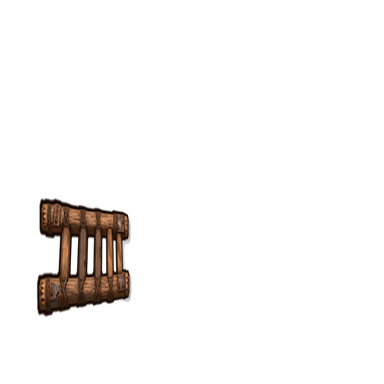
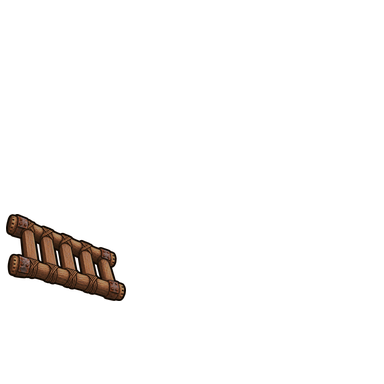
Portable ladder E/W/S GPT re-render candidates (PORTABLE_LADDER_FIX_EW_LIES_ALONG_WALL)
Owner 2026-10-24: E/W "read as totally flat ... compressive transform"; S "should only be small nubs".
E/W: Codex $imagegen edits seeded with the flat east + kept north, then a wider plank-rung pass (r4),
colour-matched to the kept north and fitted on the rig canvas by v5/portable_gpt.py; west = mirror.
S: stringer tips only over the near rim, modelled on vanilla wall-attachment south views.
draw.py no longer writes any portable facing. Criteria ledger CL-010 (flat look), CL-011 (south nubs).
Judge: 3 rounds (ladders_port_gpt_{,b_,c_}20261024), all ESCALATE; last blockers = side finish smoother
than the north, foot touching the dark (fixed after the judge: foot moved to x 258, unjudged).
NOT installed; candidates only.

Claude-Session: https://claude.ai/code/session_01L4tZvxfH2SUAkWkAy5bEtn

Changed region(s): [[0.0, 0.5, 0.3438, 0.8438]]

diff --git a/src/RimMandrake/FlowWorks/art_source/Ladder/v5/portable_gpt.py b/src/RimMandrake/FlowWorks/art_source/Ladder/v5/portable_gpt.py
@@ -1,0 +1,76 @@
+"""Portable ladder E/W/S from GPT image edits (owner 2026-10-24: v5's squeezed east "read as totally flat"; south must be
+"only small nubs sticking up", like vanilla wall-hanging souths).
+
+    python3 portable_gpt.py [east_round] [south_round]   # fits gpt/<round>_{east,south}.png onto the 384 rig canvas -> out/
+
+Sources in gpt/ are Codex $imagegen edits: east = seed v5 flat east + kept north ("restore proper 3D"); south = kept
+north + a strip of vanilla wall-attachment N/E/S views (TorchWallLamp, WallLamp, Odyssey lights/pumps).
+Rig: 384 px canvas, drawSize 1.5 (256 px/cell). East canvas: wall face band x ~262..320, rim x 320; the top pokes past
+the rim as the kept north's top pokes past its rim. South canvas: near rim at row 256; nubs stand on it.
+"""
+import sys
+from pathlib import Path
+from PIL import Image
+
+HERE = Path(__file__).resolve().parent
+GPT, OUT = HERE / "gpt", HERE / "out"
+CANVAS = 384
+E_RIGHT, E_LEN, E_CY = 378, 120, 257        # top end 58 px past the rim (north pokes 65 past its rim), foot at x 258 on the band (judge c: 252 touched the dark)
+S_RIM, S_W, S_CX = 258, 112, 192            # nubs' feet on the near rim; spread ~ the north's stringer span (119)
+S_KEEP = 0.5                                # judge round 1: the whole U read as a truncated north; keep the caps only
+
+
+def _opaque(im, t=40):
+    """Crop to pixels with alpha > t and zero the faint haze GPT leaves elsewhere."""
+    a = im.getchannel("A").point(lambda v: v if v > t else 0)
+    im = im.copy()
+    im.putalpha(a)
+    return im.crop(a.getbbox())
+
+
+def _fit(src, width):
+    im = _opaque(Image.open(src).convert("RGBA"))
+    h = round(im.height * width / im.width)
+    return im.resize((width, h), Image.LANCZOS)
+
+
+def _match(im, ref):
+    """Per-channel mean/std transfer from the kept north (judge round 2: GPT's side view was brighter and cleaner)."""
+    import numpy as np
+    a, r = np.asarray(im, dtype=np.float32).copy(), np.asarray(ref, dtype=np.float32)
+    m, mr = a[..., 3] > 200, r[..., 3] > 200
+    for c in range(3):
+        x, y = a[..., c][m], r[..., c][mr]
+        a[..., c][m] = (x - x.mean()) / (x.std() + 1e-6) * y.std() + y.mean()
+    return Image.fromarray(a.clip(0, 255).astype("uint8"), "RGBA")
+
+
+def east(rnd):
+    north = Image.open(HERE.parents[2] / "Textures/Things/Building/FlowWorks/Canals/RM_LadderPortable_north.png").convert("RGBA")
+    im = _match(_fit(GPT / f"{rnd}_east.png", E_LEN), north)
+    out = Image.new("RGBA", (CANVAS, CANVAS))
+    out.alpha_composite(im, (E_RIGHT - im.width, E_CY - im.height // 2))
+    return out
+
+
+def south(rnd):
+    im = _fit(GPT / f"{rnd}_south.png", S_W)
+    im = im.crop((0, 0, im.width, round(im.height * S_KEEP)))      # the near wall hides the rest
+    out = Image.new("RGBA", (CANVAS, CANVAS))
+    out.alpha_composite(im, (S_CX - im.width // 2, S_RIM - im.height))
+    return out
+
+
+def main():
+    erd = sys.argv[1] if len(sys.argv) > 1 else "r4"         # east round
+    srd = sys.argv[2] if len(sys.argv) > 2 else "r1"         # south round
+    e = east(erd)
+    outs = {"east": e, "west": e.transpose(Image.FLIP_LEFT_RIGHT), "south": south(srd)}
+    for f, im in outs.items():
+        p = OUT / f"RM_LadderPortable_{f}.png"
+        im.save(p)
+        print(p, im.getbbox())
+
+
+if __name__ == "__main__":
+    main()

diff --git a/src/RimMandrake/FlowWorks/art_source/Ladder/v5/draw.py b/src/RimMandrake/FlowWorks/art_source/Ladder/v5/draw.py
@@ -166,12 +166,8 @@ def rail_south(P, raised):
     return finish(shadowed(pen.im, **SHADOW))
 
 
-# ---------------------------------------------------------------- portable east/west: the kept north facing, turned
-TEX = HERE.parents[2] / "Textures" / "Things" / "Building" / "FlowWorks" / "Canals"
-
-
-def portable_east():
-    return side_from_north(Image.open(TEX / "RM_LadderPortable_north.png"), s=0.42)   # a leaned ladder: steeper still
+# portable east/west/south: owner 2026-10-24 rejected the squeezed north ("totally flat"); they now come from GPT
+# re-renders fitted by portable_gpt.py, so this script no longer writes any portable facing.
 
 
 def main():
@@ -184,8 +180,6 @@ def main():
             outs[f"{tag}_east"] = rail_east(P, r)
             outs[f"{tag}_south"] = rail_south(P, r)
             outs[f"{tag}_west"] = outs[f"{tag}_east"].transpose(Image.FLIP_LEFT_RIGHT)
-    outs["RM_LadderPortable_east"] = portable_east()
-    outs["RM_LadderPortable_west"] = outs["RM_LadderPortable_east"].transpose(Image.FLIP_LEFT_RIGHT)
     for k, im in outs.items():
         bb = im.getchannel("A").getbbox()
         assert bb and bb[0] > 0 and bb[1] > 0 and bb[2] < C and bb[3] < C, (k, bb)

diff --git a/infrastructure/state/art_eval/runs/ladders_port_gpt_c_20261024/summary.md b/infrastructure/state/art_eval/runs/ladders_port_gpt_c_20261024/summary.md
@@ -1,0 +1,10 @@
+# art_eval run ladders_port_gpt_c_20261024
+
+| subject | cand | template/module | Opus band | GPT | decision | s | reasons |
+|---|---|---|---|---|---|---|---|
+| RM_LadderPortable | A | machine/wall_mounted | WEAK | unsure | **ESCALATE** | 131.9 | opus band WEAK (model said good); blocking ['SIBLING_MISMATCH', 'OWNER_NOTE_IGNORED']; polish ['LEGIB_32']; unreadable ['BORE (n/a on an unconditional item)', 'PORTS (n/a on an unconditional item)', 'LAYERS (n/a on an unconditional item)']; gpt unsure: unsettled ['K1', 'K2', 'K5'], own blocking ['SIBLING_MISMATCH', 'OWNER_NOTE_IGNORED']; still failing after 3 regen rounds — one line to the owner |
+
+## One line each for the owner
+- RM_LadderPortable: ESCALATE — still failing after 3 regen rounds — one line to the owner
+
+Models reported: claude-opus-5-5, gpt-6.1-sol · prompt versions: `departures_brief@v2#9cda88+gpt_targeted_second_look@v1#cb6e32+opus_first_pass@v2#85b8f1+preamble@v2#7130aa+regen_prompt_edit@v1#861700+severity@v4#e9bbe1+machine@v3#c807af`

diff --git a/infrastructure/state/art_eval/runs/ladders_port_gpt_b_20261024/summary.md b/infrastructure/state/art_eval/runs/ladders_port_gpt_b_20261024/summary.md
@@ -1,0 +1,10 @@
+# art_eval run ladders_port_gpt_b_20261024
+
+| subject | cand | template/module | Opus band | GPT | decision | s | reasons |
+|---|---|---|---|---|---|---|---|
+| RM_LadderPortable | A | machine/wall_mounted | WEAK | unsure | **ESCALATE** | 119.0 | opus band WEAK (model said good); blocking ['F_INCONSISTENT', 'STYLE_OFF', 'F_SIZE_JUMP']; polish []; unreadable ['BORE (n/a on an unconditional item)', 'PORTS (n/a on an unconditional item)', 'LAYERS (n/a on an unconditional item)']; gpt unsure: unsettled ['K1', 'K2', 'K6'], own blocking ['F_INCONSISTENT', 'STYLE_OFF']; still failing after 3 regen rounds — one line to the owner |
+
+## One line each for the owner
+- RM_LadderPortable: ESCALATE — still failing after 3 regen rounds — one line to the owner
+
+Models reported: claude-opus-5-5, gpt-6.1-sol · prompt versions: `departures_brief@v2#9cda88+gpt_targeted_second_look@v1#cb6e32+opus_first_pass@v2#85b8f1+preamble@v2#7130aa+regen_prompt_edit@v1#861700+severity@v4#e9bbe1+machine@v3#c807af`

diff --git a/infrastructure/state/art_eval/runs/ladders_port_gpt_20261024/summary.md b/infrastructure/state/art_eval/runs/ladders_port_gpt_20261024/summary.md
@@ -1,0 +1,10 @@
+# art_eval run ladders_port_gpt_20261024
+
+| subject | cand | template/module | Opus band | GPT | decision | s | reasons |
+|---|---|---|---|---|---|---|---|
+| RM_LadderPortable | A | machine/wall_mounted | WEAK | regen | **ESCALATE** | 111.7 | opus band WEAK (model said good); blocking ['F_INCONSISTENT', 'OWNER_NOTE_IGNORED']; polish []; unreadable ['BORE (n/a on an unconditional item)', 'PORTS (n/a on an unconditional item)', 'LAYERS (n/a on an unconditional item)']; gpt regen: unsettled ['K1', 'K2', 'K5'], own blocking ['F_INCONSISTENT', 'OWNER_NOTE_IGNORED']; still failing after 3 regen rounds — one line to the owner |
+
+## One line each for the owner
+- RM_LadderPortable: ESCALATE — still failing after 3 regen rounds — one line to the owner
+
+Models reported: claude-opus-5-5, gpt-6.1-sol · prompt versions: `departures_brief@v2#9cda88+gpt_targeted_second_look@v1#cb6e32+opus_first_pass@v2#85b8f1+preamble@v2#7130aa+regen_prompt_edit@v1#861700+severity@v4#e9bbe1+machine@v3#c807af`
